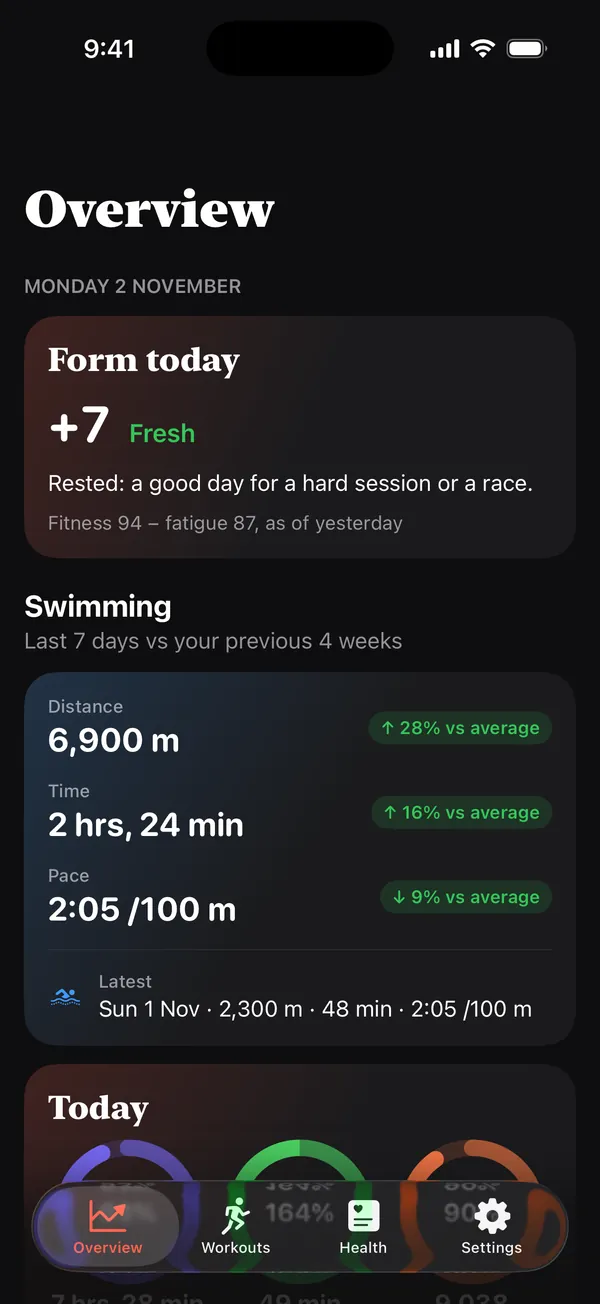
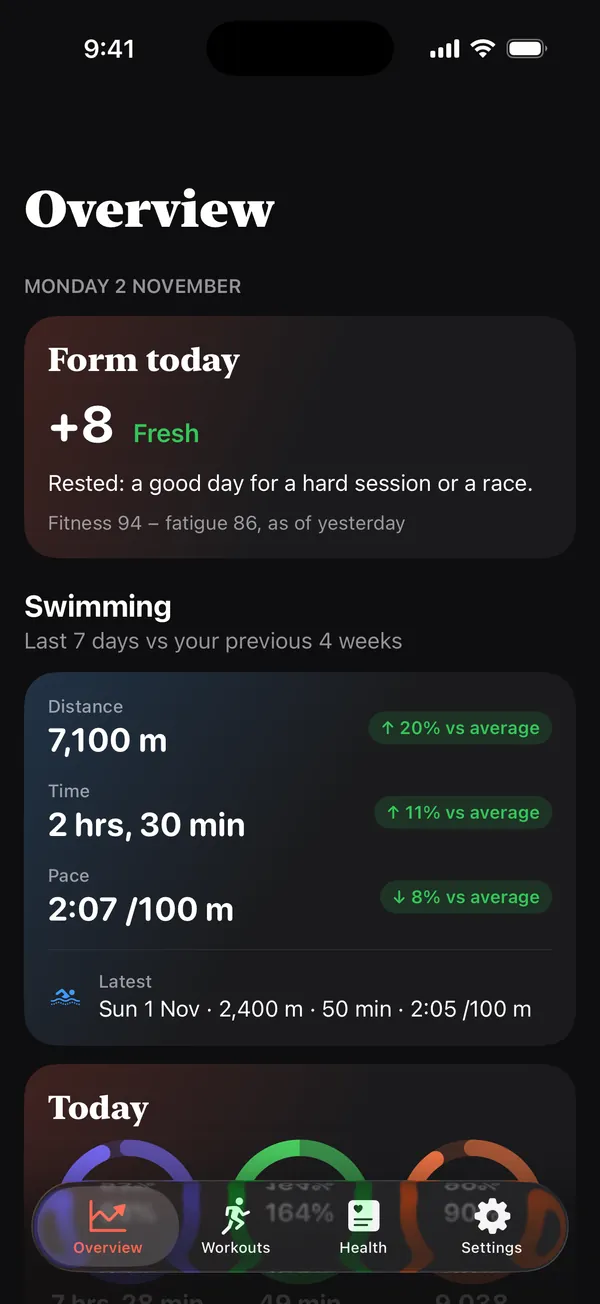
Publish GSTS website

diff --git a/help/getting-started/index.html b/help/getting-started/index.html
@@ -29,7 +29,7 @@
 <h2>What GSTS reads</h2>
 <p>Everything stays on your phone: see <a href="/help/privacy/">Privacy</a>.</p>
 <h3>On iPhone</h3>
-<p>Workouts, heart rate, resting heart rate, heart-rate variability, sleep, steps and active energy, for the last 30 days.</p>
+<p>Workouts, heart rate, resting heart rate, heart-rate variability, sleep, steps and active energy. To calculate your training numbers, GSTS reads the last 90 days of workouts and a year of heart rate; the free app shows your last 30 days.</p>
 <h3>On Android</h3>
 <p>Workouts, heart rate, resting heart rate, heart-rate variability and distance, for the last 90 days, or 30 days before you first allowed GSTS, whichever is shorter (a Health Connect rule). Steps, sleep and active energy come later.</p>
 <p>GSTS is for training and wellbeing. It is not a medical device and gives no medical advice.</p>
